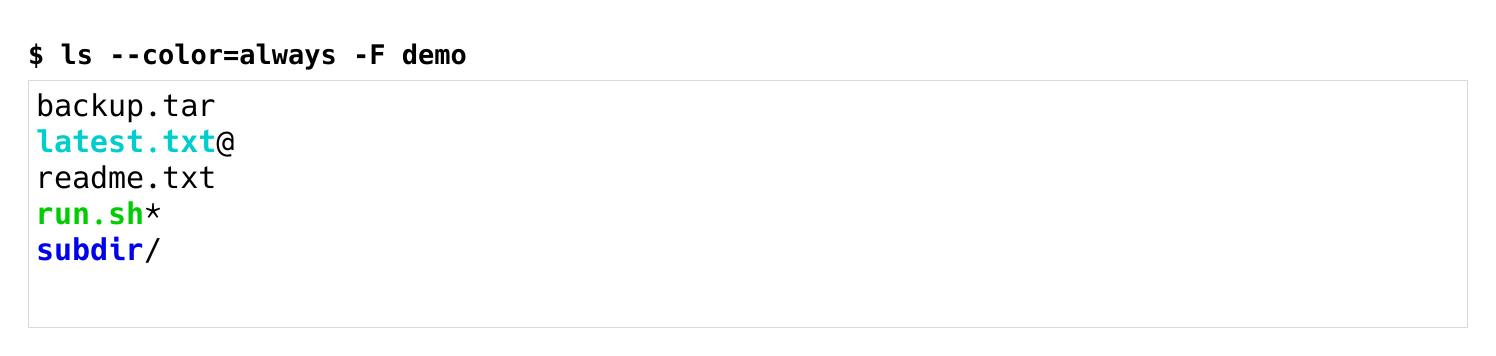
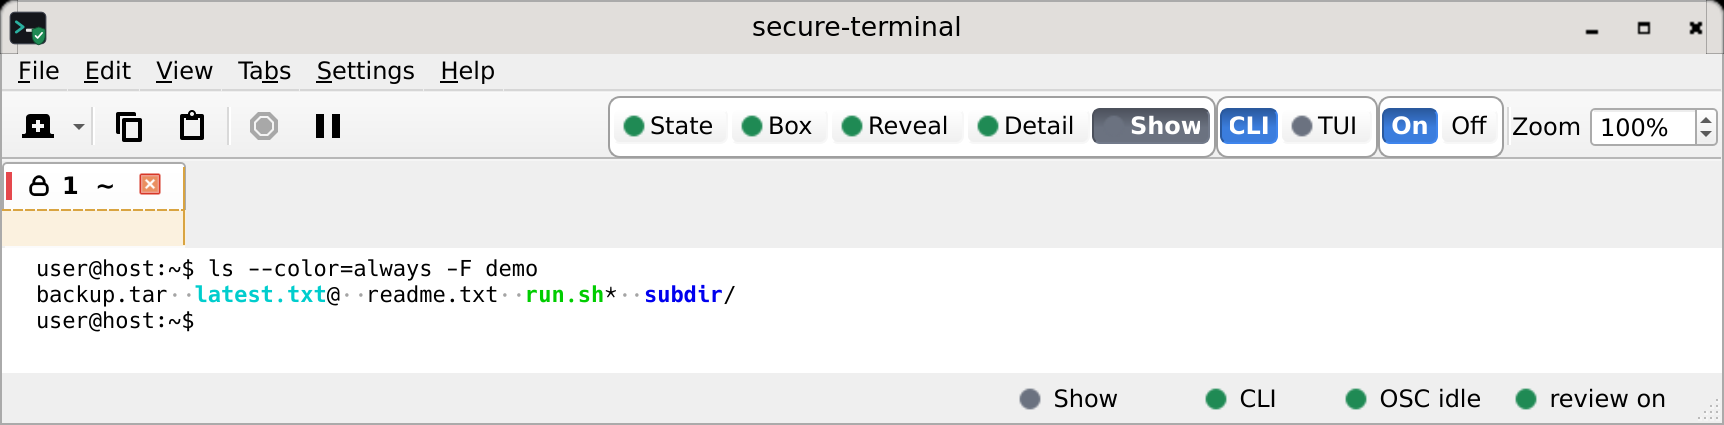
compatibility: real-window shots + line-editing modes
- recapture the program figures as REAL secure-terminal windows (labwc + grim),
  replacing the offscreen widget grabs
- add crbar + tqdm progress-bar figures under all three line-editing modes
  (full / read-safe / append-only), demonstrating the CR-redraw contrast
- rewrite the stale 2-state `line_edits` copy to the real three-mode
  `line_editing` model (single source: 30_defaults.conf)
- re-pin on-page <img> dimensions to the new 1724-wide assets (compatibility +
  screenshots pages)

diff --git a/compatibility/index.html b/compatibility/index.html
@@ -158,15 +158,15 @@
     colour and all. The test suite regenerates them byte-for-byte, so what you see is what runs.
     Click any shot for full size.</p>
   <div class="shotgrid" id="cli-shot-grid">
-    <figure class="shot" id="shot-coreutils"><figcaption class="shotname"><b>ls, cat, cp (coreutils)</b> - <code>ls --color -F</code>: file-type colours intact - cyan symlink, green executable, blue directory.</figcaption><a href="/compatibility/shots/coreutils.webp" target="_blank" rel="noopener"><img src="/compatibility/shots/coreutils.webp" width="1496" height="356" loading="lazy" alt="secure-terminal showing ls --color -F output: latest.txt@ in cyan (symlink), run.sh* in green (executable), subdir/ in blue (directory), plain files uncoloured."></a></figure>
-    <figure class="shot" id="shot-find"><figcaption class="shotname"><b>find (findutils)</b> - <code>find | sort</code>: pure line output, unchanged.</figcaption><a href="/compatibility/shots/find.webp" target="_blank" rel="noopener"><img src="/compatibility/shots/find.webp" width="1496" height="284" loading="lazy" alt="secure-terminal showing find piped to sort: a plain list of file paths under the fixture tree, one per line."></a></figure>
-    <figure class="shot" id="shot-tar"><figcaption class="shotname"><b>tar</b> - <code>tar tf</code>: the archive listing renders intact.</figcaption><a href="/compatibility/shots/tar.webp" target="_blank" rel="noopener"><img src="/compatibility/shots/tar.webp" width="1496" height="284" loading="lazy" alt="secure-terminal showing tar tf output: the member paths of a fixture archive listed one per line."></a></figure>
-    <figure class="shot" id="shot-grep"><figcaption class="shotname"><b>grep</b> - <code>grep --color -n</code>: line numbers in green, the matched text bold red - the match highlight is shown.</figcaption><a href="/compatibility/shots/grep.webp" target="_blank" rel="noopener"><img src="/compatibility/shots/grep.webp" width="1496" height="248" loading="lazy" alt="secure-terminal showing grep --color -n output: green line numbers and the matched word TODO in bold red on each matching line."></a></figure>
-    <figure class="shot" id="shot-gzip"><figcaption class="shotname"><b>gzip, zcat</b> - <code>zcat</code>: a gzip stream round-trips cleanly to its text.</figcaption><a href="/compatibility/shots/gzip.webp" target="_blank" rel="noopener"><img src="/compatibility/shots/gzip.webp" width="1496" height="248" loading="lazy" alt="secure-terminal showing zcat output: the decompressed text of a gzip file, rendered as ordinary lines."></a></figure>
-    <figure class="shot" id="shot-sed"><figcaption class="shotname"><b>sed</b> - a stream edit: the transformed output is intact.</figcaption><a href="/compatibility/shots/sed.webp" target="_blank" rel="noopener"><img src="/compatibility/shots/sed.webp" width="1496" height="320" loading="lazy" alt="secure-terminal showing sed output: each input line prefixed by the substitution, rendered as ordinary lines."></a></figure>
-    <figure class="shot" id="shot-diff"><figcaption class="shotname"><b>diff, cmp (diffutils)</b> - <code>diff --color</code>: hunk headers cyan, removals red, additions green.</figcaption><a href="/compatibility/shots/diff.webp" target="_blank" rel="noopener"><img src="/compatibility/shots/diff.webp" width="1496" height="392" loading="lazy" alt="secure-terminal showing diff --color output: cyan hunk headers, a red removed line, a green added line."></a></figure>
-    <figure class="shot" id="shot-awk"><figcaption class="shotname"><b>awk (mawk)</b> - a computed total: pure line output.</figcaption><a href="/compatibility/shots/awk.webp" target="_blank" rel="noopener"><img src="/compatibility/shots/awk.webp" width="1496" height="212" loading="lazy" alt="secure-terminal showing awk output: a single computed total line."></a></figure>
-    <figure class="shot" id="shot-git"><figcaption class="shotname"><b>git</b> - <code>git log --oneline --decorate</code>: hashes and the HEAD / branch / tag decorations in colour.</figcaption><a href="/compatibility/shots/git.webp" target="_blank" rel="noopener"><img src="/compatibility/shots/git.webp" width="1496" height="248" loading="lazy" alt="secure-terminal showing git log --oneline --decorate: yellow commit hashes with coloured HEAD, branch and tag decorations."></a></figure>
+    <figure class="shot" id="shot-coreutils"><figcaption class="shotname"><b>ls, cat, cp (coreutils)</b> - <code>ls --color -F</code>: file-type colours intact - cyan symlink, green executable, blue directory.</figcaption><a href="/compatibility/shots/coreutils.webp" target="_blank" rel="noopener"><img src="/compatibility/shots/coreutils.webp" width="1724" height="425" loading="lazy" alt="secure-terminal showing ls --color -F output: latest.txt@ in cyan (symlink), run.sh* in green (executable), subdir/ in blue (directory), plain files uncoloured."></a></figure>
+    <figure class="shot" id="shot-find"><figcaption class="shotname"><b>find (findutils)</b> - <code>find | sort</code>: pure line output, unchanged.</figcaption><a href="/compatibility/shots/find.webp" target="_blank" rel="noopener"><img src="/compatibility/shots/find.webp" width="1724" height="477" loading="lazy" alt="secure-terminal showing find piped to sort: a plain list of file paths under the fixture tree, one per line."></a></figure>
+    <figure class="shot" id="shot-tar"><figcaption class="shotname"><b>tar</b> - <code>tar tf</code>: the archive listing renders intact.</figcaption><a href="/compatibility/shots/tar.webp" target="_blank" rel="noopener"><img src="/compatibility/shots/tar.webp" width="1724" height="477" loading="lazy" alt="secure-terminal showing tar tf output: the member paths of a fixture archive listed one per line."></a></figure>
+    <figure class="shot" id="shot-grep"><figcaption class="shotname"><b>grep</b> - <code>grep --color -n</code>: line numbers in green, the matched text bold red - the match highlight is shown.</figcaption><a href="/compatibility/shots/grep.webp" target="_blank" rel="noopener"><img src="/compatibility/shots/grep.webp" width="1724" height="451" loading="lazy" alt="secure-terminal showing grep --color -n output: green line numbers and the matched word TODO in bold red on each matching line."></a></figure>
+    <figure class="shot" id="shot-gzip"><figcaption class="shotname"><b>gzip, zcat</b> - <code>zcat</code>: a gzip stream round-trips cleanly to its text.</figcaption><a href="/compatibility/shots/gzip.webp" target="_blank" rel="noopener"><img src="/compatibility/shots/gzip.webp" width="1724" height="451" loading="lazy" alt="secure-terminal showing zcat output: the decompressed text of a gzip file, rendered as ordinary lines."></a></figure>
+    <figure class="shot" id="shot-sed"><figcaption class="shotname"><b>sed</b> - a stream edit: the transformed output is intact.</figcaption><a href="/compatibility/shots/sed.webp" target="_blank" rel="noopener"><img src="/compatibility/shots/sed.webp" width="1724" height="503" loading="lazy" alt="secure-terminal showing sed output: each input line prefixed by the substitution, rendered as ordinary lines."></a></figure>
+    <figure class="shot" id="shot-diff"><figcaption class="shotname"><b>diff, cmp (diffutils)</b> - <code>diff --color</code>: hunk headers cyan, removals red, additions green.</figcaption><a href="/compatibility/shots/diff.webp" target="_blank" rel="noopener"><img src="/compatibility/shots/diff.webp" width="1724" height="555" loading="lazy" alt="secure-terminal showing diff --color output: cyan hunk headers, a red removed line, a green added line."></a></figure>
+    <figure class="shot" id="shot-awk"><figcaption class="shotname"><b>awk (mawk)</b> - a computed total: pure line output.</figcaption><a href="/compatibility/shots/awk.webp" target="_blank" rel="noopener"><img src="/compatibility/shots/awk.webp" width="1724" height="425" loading="lazy" alt="secure-terminal showing awk output: a single computed total line."></a></figure>
+    <figure class="shot" id="shot-git"><figcaption class="shotname"><b>git</b> - <code>git log --oneline --decorate</code>: hashes and the HEAD / branch / tag decorations in colour.</figcaption><a href="/compatibility/shots/git.webp" target="_blank" rel="noopener"><img src="/compatibility/shots/git.webp" width="1724" height="451" loading="lazy" alt="secure-terminal showing git log --oneline --decorate: yellow commit hashes with coloured HEAD, branch and tag decorations."></a></figure>
   </div>
   <p class="catdesc" style="margin-top:12px">The one thing CLI mode does not do is interpret
     cursor-<em>positioning</em> escapes, so a full-screen redraw (an editor, a live dashboard)
@@ -202,12 +202,33 @@
       neither brings <code>STATUS=FAIL</code> back. If you need a byte-exact record of what a program emitted,
       capture its output with <a href="https://output-lies.github.io/terminal/" rel="noopener"><code>stcat</code></a>
       or pipe it to a file - there the erase is neutralised to a visible placeholder instead of being applied.</p>
-    <p><b>Or turn it off.</b> <b>View -&gt; Line editing</b> (config key <code>line_edits</code>, default on) drops
-      the four ops entirely, so output becomes append-only against escapes and nothing can redraw a line at all.
-      The trade is real: tab completion and progress bars then append a line per update instead of redrawing in
-      place. An administrator can lock the key either way. Carriage return and backspace are raw control bytes
-      rather than escapes, so they stay honoured regardless - this is append-only against escapes, not against
-      every byte.</p>
+    <p><b>Or dial it down.</b> <b>Settings -&gt; Text rendering -&gt; Line editing</b> (config key
+      <code>line_editing</code>) has three levels, and an administrator can lock it:</p>
+    <ul>
+      <li><b>full</b> (default) - honours the four line-local escapes above <em>plus</em> carriage return and
+        backspace, so tab completion, <code>Ctrl+R</code> and a <code>\r</code> progress bar all redraw in place.</li>
+      <li><b>read-safe</b> - drops the four escapes (the shell is told the same over terminfo, so it appends
+        completions plainly). Carriage return and backspace <em>still</em> act, so a line can still be redrawn via
+        them - append-only against <em>escapes</em>, not against every byte.</li>
+      <li><b>append-only</b> - as read-safe, and additionally neutralises a carriage return or backspace that would
+        overwrite the current line, so it can <em>never</em> be rewritten. A bare <code>\r</code> becomes a hard
+        line break (each redraw frame kept on its own line) and each is flagged with a left-gutter marker, so a
+        forged <code>STATUS=FAIL\rSTATUS=PASS</code> shows <em>both</em> lines - the overwrite attempt stays visible.
+        Best for reading untrusted output; interactive progress bars scroll a line per frame.</li>
+    </ul>
+  </div>
+
+  <p class="catdesc" style="margin-top:14px">The same progress bar, run for real under each mode - a scripted
+    carriage-return bar (ASCII) and a <code>tqdm</code> bar (Unicode block glyphs). Full and read-safe redraw in
+    place; read-safe keeps the carriage return but drops the erase-line escape, so a shorter final line leaves the
+    wider bar's tail behind; append-only stacks every frame with the redraw-attempt marker.</p>
+  <div class="shotgrid" id="line-edit-shot-grid">
+    <figure class="shot" id="shot-progress-crbar-full"><figcaption class="shotname"><b>CR bar - full</b> - the bar redraws in place; the completion message erases it cleanly.</figcaption><a href="/compatibility/shots/progress-crbar-full.webp" target="_blank" rel="noopener"><img src="/compatibility/shots/progress-crbar-full.webp" width="1724" height="425" loading="lazy" alt="secure-terminal in full line-editing mode: a carriage-return progress bar redrawn in place, ending on a single clean completion line."></a></figure>
+    <figure class="shot" id="shot-progress-crbar-read-safe"><figcaption class="shotname"><b>CR bar - read-safe</b> - carriage return still redraws in place, but the erase-line escape is dropped, so the wider bar's tail trails the shorter final message.</figcaption><a href="/compatibility/shots/progress-crbar-read-safe.webp" target="_blank" rel="noopener"><img src="/compatibility/shots/progress-crbar-read-safe.webp" width="1724" height="425" loading="lazy" alt="secure-terminal in read-safe line-editing mode: the completion message overwrites from column zero but the erase-line escape is dropped, so the wider progress bar's tail remains after it."></a></figure>
+    <figure class="shot" id="shot-progress-crbar-append-only"><figcaption class="shotname"><b>CR bar - append-only</b> - carriage return is neutralised, so every redraw frame is kept on its own line with a left-gutter marker.</figcaption><a href="/compatibility/shots/progress-crbar-append-only.webp" target="_blank" rel="noopener"><img src="/compatibility/shots/progress-crbar-append-only.webp" width="1724" height="971" loading="lazy" alt="secure-terminal in append-only line-editing mode: every carriage-return progress frame kept on its own line, each flagged with a left-gutter redraw-attempt marker."></a></figure>
+    <figure class="shot" id="shot-progress-tqdm-full"><figcaption class="shotname"><b>tqdm - full</b> - a Unicode block-glyph bar redrawn in place.</figcaption><a href="/compatibility/shots/progress-tqdm-full.webp" target="_blank" rel="noopener"><img src="/compatibility/shots/progress-tqdm-full.webp" width="1724" height="425" loading="lazy" alt="secure-terminal in full line-editing mode: a tqdm progress bar of Unicode block glyphs redrawn in place at 100 percent."></a></figure>
+    <figure class="shot" id="shot-progress-tqdm-read-safe"><figcaption class="shotname"><b>tqdm - read-safe</b> - the carriage return still collapses the bar to one line; the escapes are dropped.</figcaption><a href="/compatibility/shots/progress-tqdm-read-safe.webp" target="_blank" rel="noopener"><img src="/compatibility/shots/progress-tqdm-read-safe.webp" width="1724" height="425" loading="lazy" alt="secure-terminal in read-safe line-editing mode: a tqdm bar collapsed to a single line by the carriage return with the line-editing escapes dropped."></a></figure>
+    <figure class="shot" id="shot-progress-tqdm-append-only"><figcaption class="shotname"><b>tqdm - append-only</b> - every refresh frame stacked, one per line, with the redraw-attempt marker.</figcaption><a href="/compatibility/shots/progress-tqdm-append-only.webp" target="_blank" rel="noopener"><img src="/compatibility/shots/progress-tqdm-append-only.webp" width="1724" height="997" loading="lazy" alt="secure-terminal in append-only line-editing mode: every tqdm refresh kept on its own line, forming a staircase of Unicode block-glyph bars, each flagged with a left-gutter marker."></a></figure>
   </div>
 </div></section>
 

diff --git a/screenshots/index.html b/screenshots/index.html
@@ -288,15 +288,15 @@ cat random.payload</code><button class="copybtn" type="button" hidden>Copy</butt
   <p class="catdesc">secure-terminal running ordinary command-line tools, output rendered normally - the everyday
     case, not an attack. Full detail on the <a href="/compatibility/">compatibility page</a>.</p>
   <div class="shotgrid">
-        <figure class="shot"><figcaption class="shotname"><b>coreutils</b></figcaption><a href="/compatibility/shots/coreutils.webp" target="_blank" rel="noopener"><img src="/compatibility/shots/coreutils.webp" width="1496" height="356" loading="lazy" alt="secure-terminal running coreutils, output rendered normally."></a></figure>
-        <figure class="shot"><figcaption class="shotname"><b>git</b></figcaption><a href="/compatibility/shots/git.webp" target="_blank" rel="noopener"><img src="/compatibility/shots/git.webp" width="1496" height="248" loading="lazy" alt="secure-terminal running git, output rendered normally."></a></figure>
-        <figure class="shot"><figcaption class="shotname"><b>grep</b></figcaption><a href="/compatibility/shots/grep.webp" target="_blank" rel="noopener"><img src="/compatibility/shots/grep.webp" width="1496" height="248" loading="lazy" alt="secure-terminal running grep, output rendered normally."></a></figure>
-        <figure class="shot"><figcaption class="shotname"><b>diff</b></figcaption><a href="/compatibility/shots/diff.webp" target="_blank" rel="noopener"><img src="/compatibility/shots/diff.webp" width="1496" height="392" loading="lazy" alt="secure-terminal running diff, output rendered normally."></a></figure>
-        <figure class="shot"><figcaption class="shotname"><b>find</b></figcaption><a href="/compatibility/shots/find.webp" target="_blank" rel="noopener"><img src="/compatibility/shots/find.webp" width="1496" height="284" loading="lazy" alt="secure-terminal running find, output rendered normally."></a></figure>
-        <figure class="shot"><figcaption class="shotname"><b>sed</b></figcaption><a href="/compatibility/shots/sed.webp" target="_blank" rel="noopener"><img src="/compatibility/shots/sed.webp" width="1496" height="320" loading="lazy" alt="secure-terminal running sed, output rendered normally."></a></figure>
-        <figure class="shot"><figcaption class="shotname"><b>awk</b></figcaption><a href="/compatibility/shots/awk.webp" target="_blank" rel="noopener"><img src="/compatibility/shots/awk.webp" width="1496" height="212" loading="lazy" alt="secure-terminal running awk, output rendered normally."></a></figure>
-        <figure class="shot"><figcaption class="shotname"><b>tar</b></figcaption><a href="/compatibility/shots/tar.webp" target="_blank" rel="noopener"><img src="/compatibility/shots/tar.webp" width="1496" height="284" loading="lazy" alt="secure-terminal running tar, output rendered normally."></a></figure>
-        <figure class="shot"><figcaption class="shotname"><b>gzip</b></figcaption><a href="/compatibility/shots/gzip.webp" target="_blank" rel="noopener"><img src="/compatibility/shots/gzip.webp" width="1496" height="248" loading="lazy" alt="secure-terminal running gzip, output rendered normally."></a></figure>
+        <figure class="shot"><figcaption class="shotname"><b>coreutils</b></figcaption><a href="/compatibility/shots/coreutils.webp" target="_blank" rel="noopener"><img src="/compatibility/shots/coreutils.webp" width="1724" height="425" loading="lazy" alt="secure-terminal running coreutils, output rendered normally."></a></figure>
+        <figure class="shot"><figcaption class="shotname"><b>git</b></figcaption><a href="/compatibility/shots/git.webp" target="_blank" rel="noopener"><img src="/compatibility/shots/git.webp" width="1724" height="451" loading="lazy" alt="secure-terminal running git, output rendered normally."></a></figure>
+        <figure class="shot"><figcaption class="shotname"><b>grep</b></figcaption><a href="/compatibility/shots/grep.webp" target="_blank" rel="noopener"><img src="/compatibility/shots/grep.webp" width="1724" height="451" loading="lazy" alt="secure-terminal running grep, output rendered normally."></a></figure>
+        <figure class="shot"><figcaption class="shotname"><b>diff</b></figcaption><a href="/compatibility/shots/diff.webp" target="_blank" rel="noopener"><img src="/compatibility/shots/diff.webp" width="1724" height="555" loading="lazy" alt="secure-terminal running diff, output rendered normally."></a></figure>
+        <figure class="shot"><figcaption class="shotname"><b>find</b></figcaption><a href="/compatibility/shots/find.webp" target="_blank" rel="noopener"><img src="/compatibility/shots/find.webp" width="1724" height="477" loading="lazy" alt="secure-terminal running find, output rendered normally."></a></figure>
+        <figure class="shot"><figcaption class="shotname"><b>sed</b></figcaption><a href="/compatibility/shots/sed.webp" target="_blank" rel="noopener"><img src="/compatibility/shots/sed.webp" width="1724" height="503" loading="lazy" alt="secure-terminal running sed, output rendered normally."></a></figure>
+        <figure class="shot"><figcaption class="shotname"><b>awk</b></figcaption><a href="/compatibility/shots/awk.webp" target="_blank" rel="noopener"><img src="/compatibility/shots/awk.webp" width="1724" height="425" loading="lazy" alt="secure-terminal running awk, output rendered normally."></a></figure>
+        <figure class="shot"><figcaption class="shotname"><b>tar</b></figcaption><a href="/compatibility/shots/tar.webp" target="_blank" rel="noopener"><img src="/compatibility/shots/tar.webp" width="1724" height="477" loading="lazy" alt="secure-terminal running tar, output rendered normally."></a></figure>
+        <figure class="shot"><figcaption class="shotname"><b>gzip</b></figcaption><a href="/compatibility/shots/gzip.webp" target="_blank" rel="noopener"><img src="/compatibility/shots/gzip.webp" width="1724" height="451" loading="lazy" alt="secure-terminal running gzip, output rendered normally."></a></figure>
   </div>
 </div></section>
 
